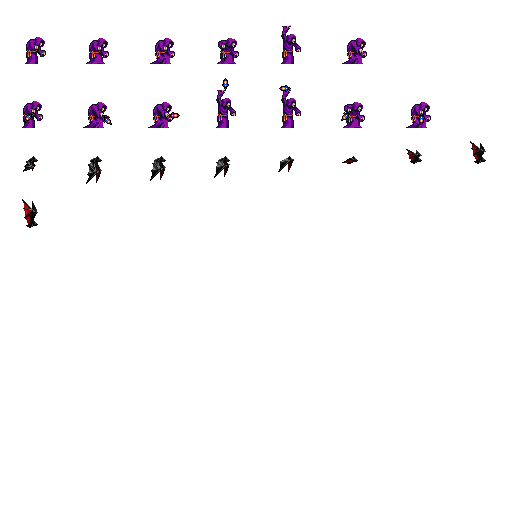
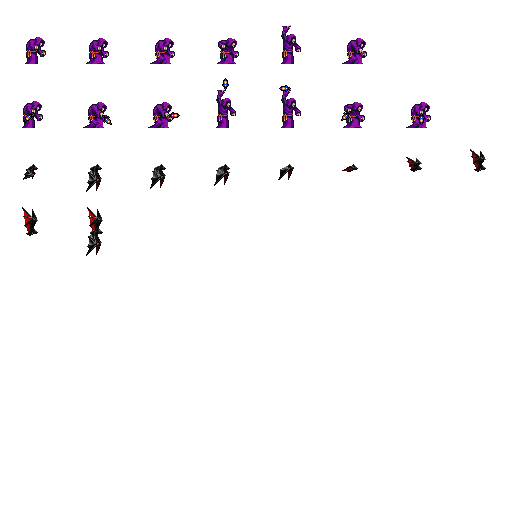
Nuevo parametro de colliderOffset en las funciones de colision. Modificado las clases para que lo usen + arreglado el bat 🦇

diff --git a/night-knight/Vampir.cpp b/night-knight/Vampir.cpp
@@ -43,7 +43,9 @@ void Vampir::update(int deltaTime) {
 
 	if (timer > 6500 && !wantsToTransform) {
 		if (isBat) wantsToTransform = true;
-		else isBat = true;
+		else {
+			transformBat();
+		}
 		timer = 0;
 	}
 
@@ -60,8 +62,8 @@ void Vampir::update(int deltaTime) {
 		colliders justo fuera del collider para poder detectar que entra "justo" entre las plataformas
 		*/
 
-		bool collisionUp = map->collisionMoveUp(glm::ivec2(posCharacter.x, posCharacter.y - 1), glm::ivec2(colliderSize.x, 1));
-		bool collisionDown = map->collisionMoveDown(glm::ivec2(posCharacter.x, posCharacter.y + spriteSize.y), glm::ivec2(colliderSize.x, 1));
+		bool collisionUp = map->collisionMoveUp(glm::ivec2(posCharacter.x, posCharacter.y - 1), colliderOffset, glm::ivec2(colliderSize.x, 1));
+		bool collisionDown = map->collisionMoveDown(glm::ivec2(posCharacter.x, posCharacter.y + colliderSize.y), colliderOffset, glm::ivec2(colliderSize.x, 1));
 		if (collisionUp && collisionDown) {
 			goesUp = !goesUp;
 			posCharacter.x += (rightSight * 2 - 1) * moveSpeed;
@@ -74,14 +76,12 @@ void Vampir::update(int deltaTime) {
 		
 
 
-			bool collisionUp = map->collisionMoveUp(nextPos, glm::ivec2(colliderSize.x, 1));
-			bool collisionDown = map->collisionMoveDown(glm::ivec2(nextPos.x, nextPos.y + spriteSize.y - 1), glm::ivec2(colliderSize.x, 1));
+			bool collisionUp = map->collisionMoveUp(nextPos, colliderOffset, glm::ivec2(colliderSize.x, 1));
+			bool collisionDown = map->collisionMoveDown(glm::ivec2(nextPos.x, nextPos.y + colliderSize.y - 1), colliderOffset, glm::ivec2(colliderSize.x, 1));
 
 
 			if (wantsToTransform && collisionDown) {
-				wantsToTransform = false;
-				isBat = false;
-				timer = 0;
+				transformVampir();
 				nextPos.y = posCharacter.y; //No cambiamos la y
 			}
 			else if (goesUp && collisionUp || !goesUp && collisionDown) {
@@ -98,15 +98,17 @@ void Vampir::update(int deltaTime) {
 		nextPos.x = posCharacter.x + (rightSight * 2 - 1) * moveSpeed;
 		nextPos.y = posCharacter.y;
 
-		if (map->collisionMoveLeft(nextPos + colliderOffset, colliderSize) || map->collisionMoveRight(nextPos + colliderOffset, colliderSize)) {
+		if (map->collisionMoveLeft(nextPos, colliderOffset, colliderSize) || map->collisionMoveRight(nextPos, colliderOffset, colliderSize)) {
 			rightSight = !rightSight;
 		}
-		if (rightSight && sprite->animation() != FLY_RIGHT) sprite->changeAnimation(FLY_RIGHT);
-		else if (!rightSight && sprite->animation() != FLY_LEFT) sprite->changeAnimation(FLY_LEFT);
+
+		//Puede ser que en medio del if se haya transformado en man, hay que comprobarlo.
+		if (rightSight && isBat && sprite->animation() != FLY_RIGHT) sprite->changeAnimation(FLY_RIGHT);
+		else if (!rightSight && isBat && sprite->animation() != FLY_LEFT) sprite->changeAnimation(FLY_LEFT);
 	}
 	else {
 		// Igual que l'esquelet
-		bool sightChange = (map->tevacae(posCharacter + colliderOffset, colliderSize, rightSight) || map->collisionMoveLeft(posCharacter + colliderOffset, colliderSize) || map->collisionMoveRight(posCharacter + colliderOffset, colliderSize));
+		bool sightChange = (map->tevacae(posCharacter + colliderOffset, colliderSize, rightSight) || map->collisionMoveLeft(posCharacter, colliderOffset, colliderSize) || map->collisionMoveRight(posCharacter, colliderOffset, colliderSize));
 		if (sightChange) {
 			rightSight = !rightSight;
 			if (rightSight && sprite->animation() != MOVE_RIGHT) sprite->changeAnimation(MOVE_RIGHT);
@@ -116,6 +118,27 @@ void Vampir::update(int deltaTime) {
 	}
 
 	sprite->setPosition(glm::vec2(float(tileMapDispl.x + posCharacter.x), float(tileMapDispl.y + posCharacter.y)));
+}
+
+void Vampir::transformBat() {
+	isBat = true;
+
+	colliderSize = glm::ivec2(13, 32);
+	colliderOffset = glm::ivec2(26, 24);
+}
+void Vampir::transformVampir() {
+	wantsToTransform = false;
+	isBat = false;
+	timer = 0;
+
+	posCharacter.y -= spriteSize.y - (colliderOffset.y + colliderSize.y); //Corregir posicion Y
+
+	colliderSize = glm::ivec2(21, 27);
+	colliderOffset = glm::ivec2(25, 37);
+
+	if (rightSight && sprite->animation() != MOVE_RIGHT) sprite->changeAnimation(MOVE_RIGHT);
+	else if (!rightSight && sprite->animation() != MOVE_LEFT) sprite->changeAnimation(MOVE_LEFT);
+
 }
 
 void Vampir::loadAnimations() {

diff --git a/night-knight/Player.cpp b/night-knight/Player.cpp
@@ -210,7 +210,7 @@ void Player::update(int deltaTime)
 		}
 		rightSight = false;
 		posCharacter.x -= moveSpeed;
-		if (map->collisionMoveLeft(posCharacter + colliderOffset, colliderSize, bJumping))
+		if (map->collisionMoveLeft(posCharacter, colliderOffset, colliderSize, bJumping))
 		{
 			posCharacter.x += moveSpeed;
 			if (sprite->animation() == MOVE_LEFT) sprite->changeAnimation(STAND_LEFT);
@@ -224,7 +224,7 @@ void Player::update(int deltaTime)
 		}
 		rightSight = true;
 		posCharacter.x += moveSpeed;
-		if (map->collisionMoveRight(posCharacter + colliderOffset, colliderSize, bJumping))
+		if (map->collisionMoveRight(posCharacter, colliderOffset, colliderSize, bJumping))
 		{
 			posCharacter.x -= moveSpeed;
 			if (sprite->animation() == MOVE_RIGHT) sprite->changeAnimation(STAND_RIGHT);
@@ -237,7 +237,7 @@ void Player::update(int deltaTime)
 		int nextJumpAngle = jumpAngle + JUMP_ANGLE_STEP;
 
 		int nextY = int(startY - JUMP_HEIGHT * sin(3.14159f * nextJumpAngle / 180.f));
-		if (map->collisionMoveUp(glm::ivec2(posCharacter.x + colliderOffset.x, nextY + colliderOffset.y), colliderSize, true)) {
+		if (map->collisionMoveUp(glm::ivec2(posCharacter.x, nextY), colliderOffset, colliderSize, true)) {
 			jumpAngle = (180 - jumpAngle);
 		}
 
@@ -258,7 +258,7 @@ void Player::update(int deltaTime)
 			checkCollisionUnder();
 
 			if (jumpAngle > 90) {
-				int tileCol = map->collisionMoveDown(posCharacter + colliderOffset, colliderSize, &posCharacter.y);
+				int tileCol = map->collisionMoveDown(posCharacter, colliderOffset, colliderSize, &posCharacter.y);
 				bJumping = tileCol == TILE_NOT_SOLID;
 			}
 		}
@@ -330,7 +330,7 @@ void Player::update(int deltaTime)
 		checkCollisionUnder();
 
 		//Colision con suelo fuera del salto
-		if(map->collisionMoveDown(posCharacter + colliderOffset, colliderSize, &posCharacter.y) != 0 && sprite->animation() != MUELTO)
+		if(map->collisionMoveDown(posCharacter, colliderOffset, colliderSize, &posCharacter.y) != 0 && sprite->animation() != MUELTO)
 		{
 			if (Game::instance().getSpecialKey(GLUT_KEY_UP))
 			{
@@ -399,7 +399,7 @@ void Player::checkCollisionUnder() {
 	int tileSize = map->getTileSize();
 	for (int i = 0; i < 2; ++i) {
 		int offset = (i == 0) ? 0 : colliderSize.x - 1;
-		int tileCol = map->collisionMoveDown(glm::ivec2(posCharacter.x + colliderOffset.x + offset, posCharacter.y + colliderOffset.y), glm::ivec2(1, colliderSize.y), nullptr);
+		int tileCol = map->collisionMoveDown(glm::ivec2(posCharacter.x + colliderOffset.x + offset, posCharacter.y + colliderOffset.y), glm::ivec2(1, colliderSize.y));
 		if (tileCol == TILE_PLATFORM) {
 			map->modifyTileMap((posCharacter.y + colliderOffset.y + colliderSize.y) / tileSize, (posCharacter.x + colliderOffset.x + offset) / tileSize, /*4 * 8 + 5*/ -16);
 			map->reduceNumberOfPlatforms();
@@ -412,7 +412,7 @@ void Player::checkCollisionUnder() {
 	//los puntos de colision estan mas hacia el centro
 	for (int i = 0; i < 2; ++i) {
 		int offset = (i == 0) ? 6 : colliderSize.x - 7;
-		int tileCol = map->collisionMoveDown(glm::ivec2(posCharacter.x + colliderOffset.x + offset, posCharacter.y + colliderOffset.y), glm::ivec2(1, colliderSize.y), nullptr);
+		int tileCol = map->collisionMoveDown(glm::ivec2(posCharacter.x + colliderOffset.x + offset, posCharacter.y + colliderOffset.y), glm::ivec2(1, colliderSize.y));
 		if (tileCol == TILE_SPIKE && !isHurted()) { //Pinxo
 			muelto();
 		}

diff --git a/night-knight/TileMap.cpp b/night-knight/TileMap.cpp
@@ -324,6 +324,125 @@ bool TileMap::collisionMoveUp(const glm::ivec2 &pos, const glm::ivec2 &size, boo
 	return false;
 }
 
+
+// Collision tests for axis aligned bounding boxes with collider offsets
+
+bool TileMap::collisionMoveLeft(const glm::ivec2& pos, const glm::ivec2& colliderOffset, const glm::ivec2& colliderSize, bool bJumping) const
+{
+	int x, y0, y1;
+
+	x = (pos.x + colliderOffset.x) / tileSize;
+	y0 = (pos.y + colliderOffset.y) / tileSize;
+	y1 = (pos.y + colliderOffset.y + colliderSize.y - 1) / tileSize;
+	for (int y = y0; y <= y1; y++)
+	{
+		int tile = map[y * mapSize.x + x];
+		int type = tileType[tile];
+		switch (type)
+		{
+		case TILE_NOT_SOLID:
+			break;
+		case TILE_PLATFORM:
+		case TILE_PLATFORM_ACTIVATED:
+			if (bJumping) break;
+		case TILE_SOLID:
+		case TILE_SPIKE:
+			return true;
+		}
+	}
+
+	return false;
+}
+
+bool TileMap::collisionMoveRight(const glm::ivec2& pos, const glm::ivec2& colliderOffset, const glm::ivec2& colliderSize, bool bJumping) const
+{
+	int x, y0, y1;
+
+	x = (pos.x + colliderOffset.x + colliderSize.x - 1) / tileSize;
+	y0 = (pos.y + colliderOffset.y) / tileSize;
+	y1 = (pos.y + colliderOffset.y + colliderSize.y - 1) / tileSize;
+	for (int y = y0; y <= y1; y++)
+	{
+		int tile = map[y * mapSize.x + x];
+		int type = tileType[tile];
+		switch (type)
+		{
+		case TILE_NOT_SOLID:
+			break;
+		case TILE_PLATFORM:
+		case TILE_PLATFORM_ACTIVATED:
+			if (bJumping) break;
+		case TILE_SOLID:
+		case TILE_SPIKE:
+			return true;
+		}
+	}
+
+	return false;
+}
+
+int TileMap::collisionMoveDown(const glm::ivec2& pos, const glm::ivec2& colliderOffset, const glm::ivec2& colliderSize, int* posY) const
+{
+	int x0, x1, y;
+	int offsetY = (posY != nullptr) ? (pos.y + colliderOffset.y) - *posY : 0;
+	x0 = (pos.x + colliderOffset.x) / tileSize;
+	x1 = (pos.x + colliderOffset.x + colliderSize.x - 1) / tileSize;
+	y = (pos.y + colliderOffset.y + colliderSize.y - 1) / tileSize;
+	for (int x = x0; x <= x1; x++)
+	{
+		int tile = map[y * mapSize.x + x];
+		int type = tileType[tile];
+		switch (type)
+		{
+		case TILE_NOT_SOLID:
+			break;
+		case TILE_SOLID:
+		case TILE_PLATFORM:
+		case TILE_PLATFORM_ACTIVATED:
+		case TILE_SPIKE:
+			if (posY == nullptr) {
+				return type;
+			}
+			else if ((pos.y + colliderOffset.y) - tileSize * y + colliderSize.y <= 4)
+			{
+				*posY = tileSize * y - colliderSize.y - offsetY;
+				return type;
+			}
+		}
+	}
+
+	return 0;
+}
+
+bool TileMap::collisionMoveUp(const glm::ivec2& pos, const glm::ivec2& colliderOffset, const glm::ivec2& colliderSize, bool ignorePlatform) const
+{
+	int x0, x1, y;
+
+	x0 = (pos.x + colliderOffset.x) / tileSize;
+	x1 = (pos.x + colliderOffset.x + colliderSize.x - 1) / tileSize;
+	y = (pos.y + colliderOffset.y) / tileSize;
+	for (int x = x0; x <= x1; x++)
+	{
+		int tile = map[y * mapSize.x + x];
+		int type = tileType[tile];
+		switch (type)
+		{
+		case TILE_NOT_SOLID:
+			break;
+		case TILE_PLATFORM:
+		case TILE_PLATFORM_ACTIVATED:
+			if (ignorePlatform)
+				break;
+		case TILE_SOLID:
+		case TILE_SPIKE:
+			return true;
+		}
+	}
+
+	return false;
+}
+
+
 void TileMap::modifyTileMap(int i, int j, int newTile) {
 	if (newTile < 0) newTile = map[mapSize.x * i + j] + (-newTile); //XD confia
 	map[mapSize.x * i + j] = newTile;

diff --git a/night-knight/Fantasma.cpp b/night-knight/Fantasma.cpp
@@ -9,7 +9,7 @@ void Fantasma::init(const glm::ivec2& tileMapPos, bool rightSight, string sprite
 	Character::init(tileMapPos, rightSight, spriteFile, colliderSize, colliderOffset, pixelSize, texSize, shaderProgram);
 	Effect fantasmaEffect;
 	fantasmaEffect.id = EFFECT_SIN_Y;
-	fantasmaEffect.timer = 60 * 1000;
+	fantasmaEffect.timer = 120 * 1000;
 	effectStack.push(fantasmaEffect);
 }
 
@@ -22,8 +22,18 @@ void Fantasma::update(int deltaTime) {
 	nextPos.x = posCharacter.x + (rightSight * 2 - 1) * moveSpeed;
 	nextPos.y = posCharacter.y + (!goesUp * 2 - 1) * moveSpeed;
 
-	bool collisionUp = map->collisionMoveUp(glm::ivec2(posCharacter.x, posCharacter.y - 1), glm::ivec2(spriteSize.x, 1));
-	bool collisionDown = map->collisionMoveDown(glm::ivec2(posCharacter.x, posCharacter.y + spriteSize.y), glm::ivec2(spriteSize.x, 1));
+	/*
+	--------------
+	|		|
+	|		|
+	|_______|
+	---------------
+
+	colliders justo fuera del collider para poder detectar que entra "justo" entre las plataformas
+	*/
+
+	bool collisionUp = map->collisionMoveUp(glm::ivec2(posCharacter.x, posCharacter.y - 1), colliderOffset, glm::ivec2(colliderSize.x, 1));
+	bool collisionDown = map->collisionMoveDown(glm::ivec2(posCharacter.x, posCharacter.y + spriteSize.y), colliderOffset, glm::ivec2(colliderSize.x, 1));
 
 	if (nextPos.x < map->LEFT_WALL || nextPos.x + spriteSize.x > map->RIGHT_WALL) {
 		rightSight = !rightSight;

diff --git a/night-knight/TileMap.h b/night-knight/TileMap.h
@@ -44,6 +44,11 @@ public:
 	int collisionMoveDown(const glm::ivec2 &pos, const glm::ivec2 &size, int *posY = nullptr) const;
 	bool collisionMoveUp(const glm::ivec2 &pos, const glm::ivec2 &size, bool ignorePlatform = false) const;
 
+	bool collisionMoveLeft(const glm::ivec2 &pos, const glm::ivec2 &colliderOffset, const glm::ivec2 &colliderSize, bool bJumping = false) const;
+	bool collisionMoveRight(const glm::ivec2 &pos, const glm::ivec2 &colliderOffset, const glm::ivec2 &colliderSize, bool bJumping = false) const;
+	int collisionMoveDown(const glm::ivec2 &pos, const glm::ivec2 &colliderOffset, const glm::ivec2 &colliderSize, int *posY = nullptr) const;
+	bool collisionMoveUp(const glm::ivec2 &pos, const glm::ivec2 &colliderOffset, const glm::ivec2 &colliderSize, bool ignorePlatform = false) const;
+
 	void modifyTileMap(int i, int j, int newTile);
 
 	bool tevacae(const glm::ivec2& pos, const glm::ivec2& size, bool rightSight) const;

diff --git a/night-knight/Esquelet.cpp b/night-knight/Esquelet.cpp
@@ -9,7 +9,7 @@ enum CharacterAnims
 
 void Esquelet::update(int deltaTime) {
 	Character::update(deltaTime);
-	bool sightChange = (map->tevacae(posCharacter, spriteSize, rightSight) || map->collisionMoveLeft(posCharacter, spriteSize, false) || map->collisionMoveRight(posCharacter, spriteSize, false));
+	bool sightChange = (map->tevacae(posCharacter, spriteSize, rightSight) || map->collisionMoveLeft(posCharacter, colliderOffset, colliderSize, false) || map->collisionMoveRight(posCharacter, colliderOffset, colliderSize, false));
 	if (sightChange) {
 		rightSight = !rightSight;
 		sprite->changeAnimation(rightSight);

diff --git a/night-knight/Vampir.h b/night-knight/Vampir.h
@@ -7,6 +7,10 @@ public:
 	virtual void update(int deltaTime);
 private:
 	virtual void loadAnimations();
+
+	void transformBat();
+	void transformVampir();
+
 	bool isBat;
 	bool wantsToTransform;
 	bool goesUp;

diff --git a/night-knight/Effect.h b/night-knight/Effect.h
@@ -5,5 +5,5 @@ using namespace std;
 
 struct Effect
 {
-	int timer, id, priority;
+	int timer, id;
 };
